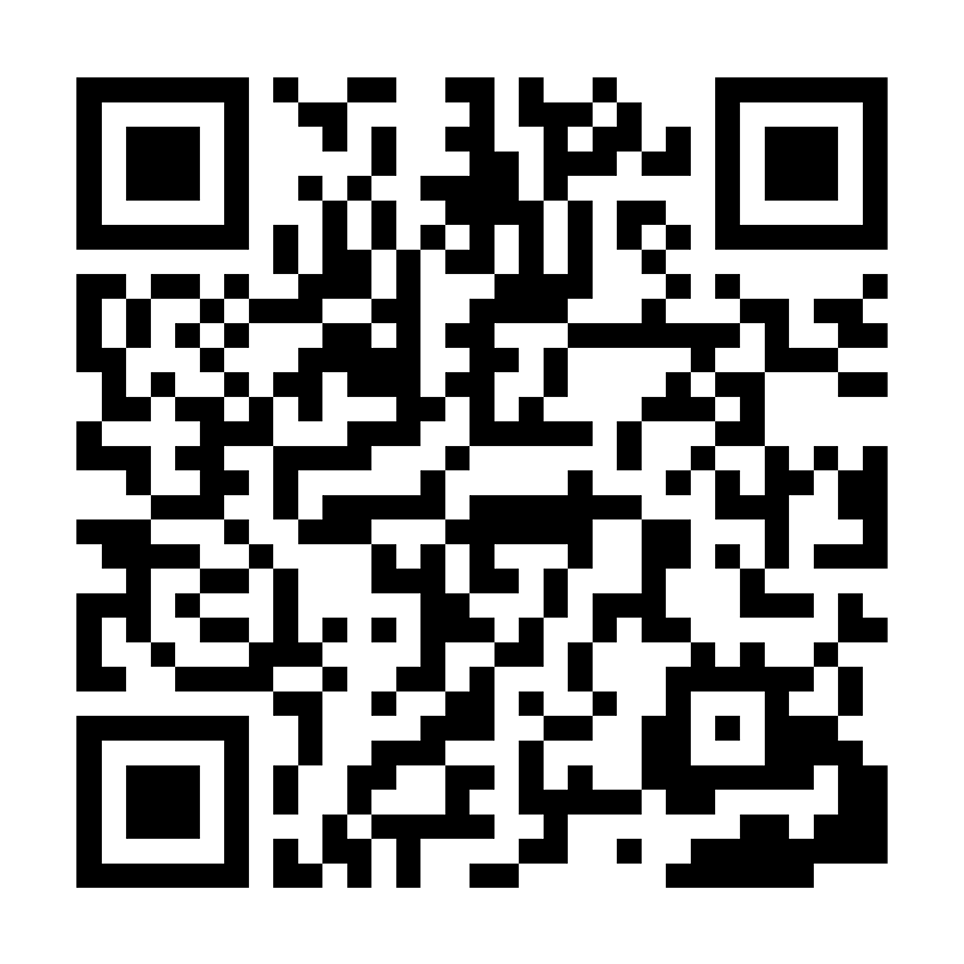
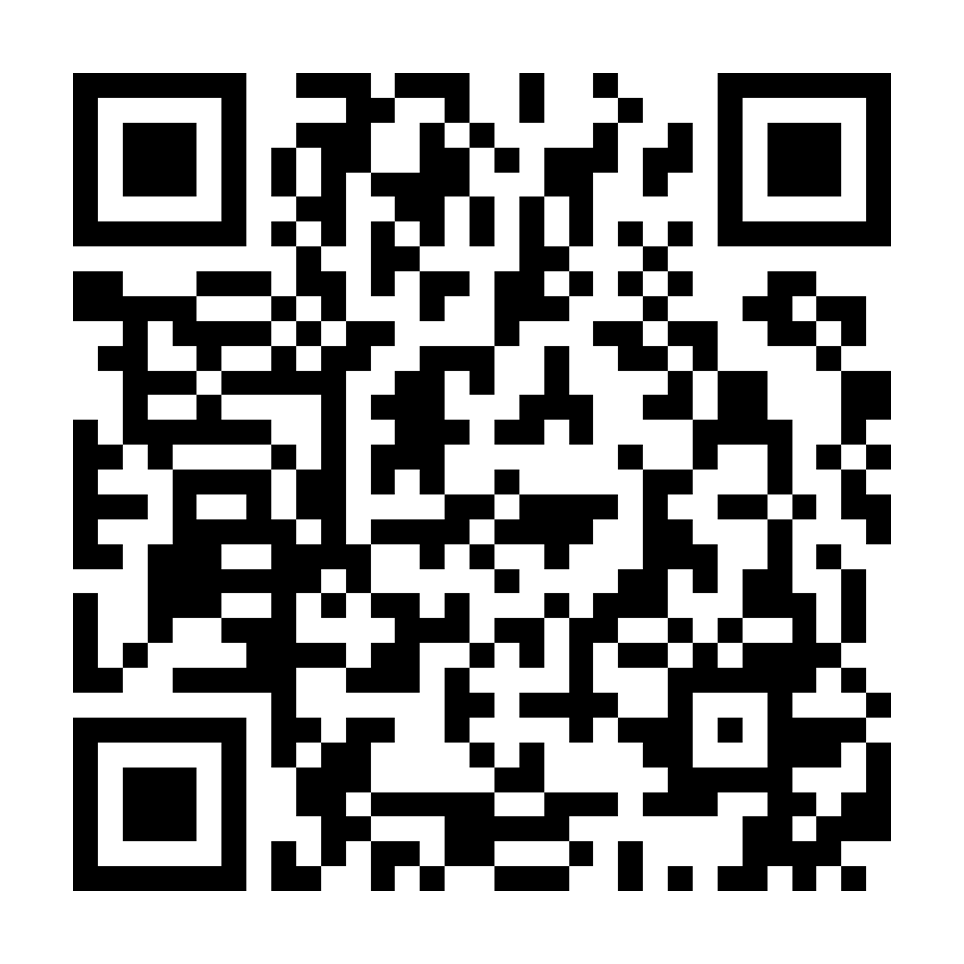
Add files via upload

Changed region(s): [[0.0622, 0.0622, 0.9336, 0.9336]]

diff --git a/card.html b/card.html
@@ -644,7 +644,7 @@ img.qrcode-img-front[_ngcontent-llw-c127] {
     </div>
   </div>
   <!-- outside pages elements------------------------------------------------------ -->
-     <app-root _nghost-llw-c15="" ng-version="15.2.10"><router-outlet _ngcontent-llw-c15=""></router-outlet><app-public-layout _nghost-llw-c21=""><router-outlet _ngcontent-llw-c21=""></router-outlet><bpms-nezam-public-layout _nghost-llw-c194=""><section _ngcontent-llw-c194="" id="nzmp-header"><div _ngcontent-llw-c194="" id="nzmp-logo"><img _ngcontent-llw-c194="" src="logo-blue.png"></div><div _ngcontent-llw-c194="" id="nzmp-title"><a _ngcontent-llw-c194="" routerlink="" style="color: white;" href="https://ims.irceo.ir/">نظام مهندسی ساختمان کشور</a></div></section><section _ngcontent-llw-c194="" id="nzmp-page-cnt"><router-outlet _ngcontent-llw-c194=""></router-outlet><nzm-membership-card-register-page _nghost-llw-c117=""><app-membership-card-print _ngcontent-llw-c117="" _nghost-llw-c127=""><div _ngcontent-llw-c127="" class="membership-card-print-container"><!----><div _ngcontent-llw-c127="" style="display: flex; flex-direction: column;"><div _ngcontent-llw-c127="" class="print-preview-image"><img _ngcontent-llw-c127="" src="membership-card-watermark.png" style="width: 100%;"><label _ngcontent-llw-c127="" class="membership-branch">استان خوزستان</label>
+     <app-root _nghost-llw-c15="" ng-version="15.2.10"><router-outlet _ngcontent-llw-c15=""></router-outlet><app-public-layout _nghost-llw-c21=""><router-outlet _ngcontent-llw-c21=""></router-outlet><bpms-nezam-public-layout _nghost-llw-c194=""><section _ngcontent-llw-c194="" id="nzmp-header"><div _ngcontent-llw-c194="" id="nzmp-logo"><img _ngcontent-llw-c194="" src="logo-blue.png"></div><div _ngcontent-llw-c194="" id="nzmp-title"><a _ngcontent-llw-c194="" routerlink="" style="color: white;" href="https://ims.irceo.ir/">نظام مهندسی ساختمان کشور</a></div></section><section _ngcontent-llw-c194="" id="nzmp-page-cnt"><router-outlet _ngcontent-llw-c194=""></router-outlet><nzm-membership-card-register-page _nghost-llw-c117=""><app-membership-card-print _ngcontent-llw-c117="" _nghost-llw-c127=""><div _ngcontent-llw-c127="" class="membership-card-print-container"><!----><div _ngcontent-llw-c127="" style="display: flex; flex-direction: column;"><div _ngcontent-llw-c127="" class="print-preview-image"><img _ngcontent-llw-c127="" src="membership-card-watermark.png" style="width: 100%;"><label _ngcontent-llw-c127="" class="membership-branch">استان کردستان</label>
 
 <img _ngcontent-llw-c127="" class="qrcode-img-front" src="data_image_png;base….png">
 
@@ -659,9 +659,9 @@ img.qrcode-img-front[_ngcontent-llw-c127] {
     background-position: center" src="Pic1.jpg">
 
 
-<div _ngcontent-llw-c127="" class="print-content"><label _ngcontent-llw-c127="" style="margin-bottom: 3px;">حمیده رضائی میرقاید</label><label _ngcontent-llw-c127="">1971678473</label><label _ngcontent-llw-c127="">1010128924</label><label _ngcontent-llw-c127="">معماری</label><label _ngcontent-llw-c127="">1394/10/18</label><label _ngcontent-llw-c127="">21028482415</label></div><label _ngcontent-llw-c127="" class="back-validity-date">1405/12/29</label><!----><!----></div>
+<div _ngcontent-llw-c127="" class="print-content"><label _ngcontent-llw-c127="" style="margin-bottom: 3px;">لادن احمدی</label><label _ngcontent-llw-c127="">3732486222</label><label _ngcontent-llw-c127="">1010128924</label><label _ngcontent-llw-c127="">معماری</label><label _ngcontent-llw-c127="">1394/10/18</label><label _ngcontent-llw-c127="">21028482415</label></div><label _ngcontent-llw-c127="" class="back-validity-date">1405/12/29</label><!----><!----></div>
 
-<div _ngcontent-llw-c127="" class="print-preview-image preview-back"><img _ngcontent-llw-c127="" src="membership-card-watermark-back.png" style="width: 100%;"><label _ngcontent-llw-c127="" class="back-full-name" style="margin-bottom: 300px;">HAMIDEH REZAEI MIRGHAYED</label><label _ngcontent-llw-c127="" class="back-national">1971678473</label><label _ngcontent-llw-c127="" class="back-membership-code">1010128924</label><label _ngcontent-llw-c127="" class="back-license-no">21028482415</label>
+<div _ngcontent-llw-c127="" class="print-preview-image preview-back"><img _ngcontent-llw-c127="" src="membership-card-watermark-back.png" style="width: 100%;"><label _ngcontent-llw-c127="" class="back-full-name" style="margin-bottom: 300px;">LADAN AHMADI</label><label _ngcontent-llw-c127="" class="back-national">3732486222</label><label _ngcontent-llw-c127="" class="back-membership-code">1010128924</label><label _ngcontent-llw-c127="" class="back-license-no">21028482415</label>
 
 
 <img _ngcontent-llw-c127="" class="qrcode-img-back" src="data_image_png;base….png">
